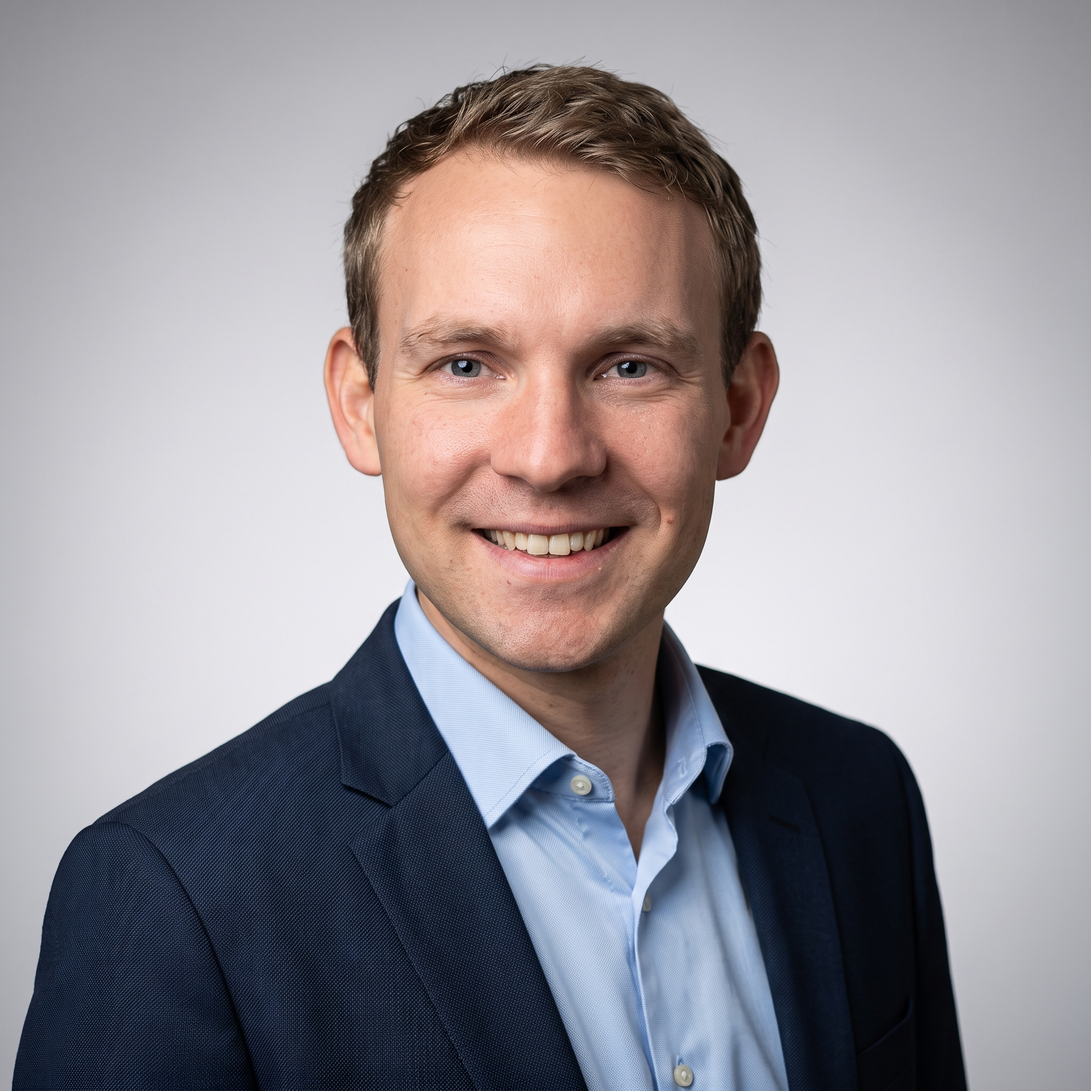
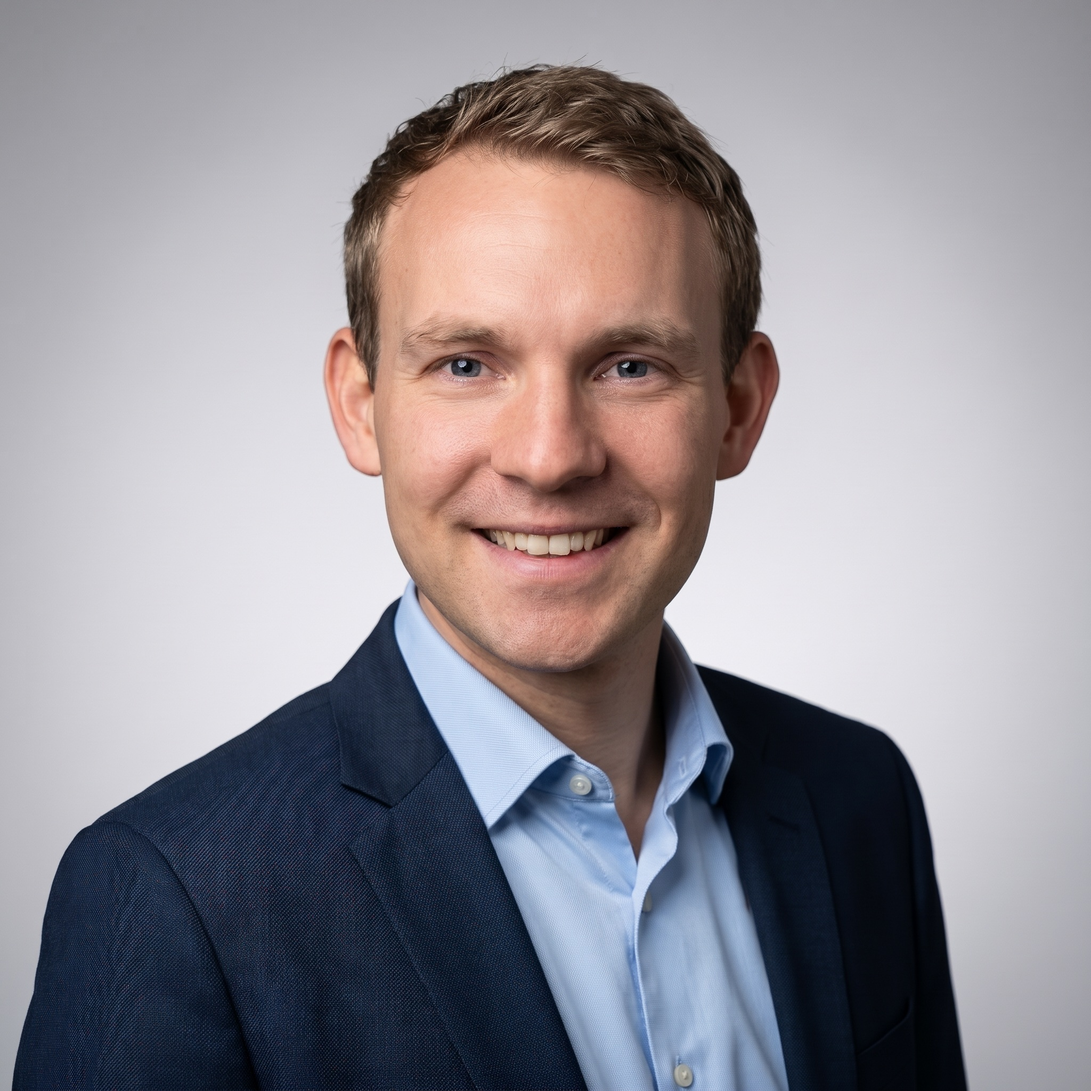
Add comprehensive README with live site link and update profile image

diff --git a/README.md b/README.md
@@ -1,0 +1,125 @@
+# Bennit Strack — Personal Portfolio & Projects
+
+[![Live Demo](https://img.shields.io/badge/Live_Website-bennit99.github.io%2FMyWebsite-00DC82?style=for-the-badge&logo=googlechrome&logoColor=white)](https://bennit99.github.io/MyWebsite/)
+[![Deploy Status](https://img.shields.io/github/actions/workflow/status/Bennit99/MyWebsite/deploy.yml?branch=main&label=Deploy%20Pages&style=for-the-badge)](https://github.com/Bennit99/MyWebsite/actions)
+[![Vue.js](https://img.shields.io/badge/Vue.js_3-4FC08D?style=for-the-badge&logo=vuedotjs&logoColor=white)](https://vuejs.org/)
+[![Vite](https://img.shields.io/badge/Vite_6-646CFF?style=for-the-badge&logo=vite&logoColor=white)](https://vitejs.dev/)
+[![Tailwind CSS](https://img.shields.io/badge/Tailwind_CSS_v4-06B6D4?style=for-the-badge&logo=tailwindcss&logoColor=white)](https://tailwindcss.com/)
+
+> **Live Website:** [https://bennit99.github.io/MyWebsite/](https://bennit99.github.io/MyWebsite/)  
+> **Download CV:** [Bennit_Strack_CV.pdf](https://bennit99.github.io/MyWebsite/Bennit_Strack_CV.pdf)
+
+Welcome to the repository for my personal developer portfolio and software showcase. This site presents an overview of my background as an M.Sc. Wirtschaftsinformatiker / Software Engineer, featuring highlighted software engineering and data science projects, technical skills, and direct contact options.
+
+---
+
+## 🚀 Features
+
+- **⚡ Modern Stack:** Built with Vue 3 (Composition API `<script setup>`) and Vite for lightning-fast HMR and bundle optimization.
+- **🎨 Sleek Dark UI:** Modern dark aesthetic styled with Tailwind CSS v4, custom gradient accents, backdrop blurs, and glow effects.
+- **📱 Fully Responsive:** Optimized layout across mobile, tablet, and widescreen desktop displays.
+- **📂 Project Showcase:** Filterable project cards detailing key technologies, system architectures, and live/demo links.
+- **📄 Public CV Download:** Direct access to my curriculum vitae (PDF) with base-path-aware routing.
+- **🔒 Privacy-Focused Analytics:** Integrated with [Umami](https://umami.is/) for lightweight, cookie-free visitor insights.
+- **🤖 Automated CI/CD:** Fully automated builds and deployment to GitHub Pages via GitHub Actions on every push to `main`.
+
+---
+
+## 🛠 Tech Stack
+
+| Layer | Technologies |
+| :--- | :--- |
+| **Framework** | [Vue 3](https://vuejs.org/) (Composition API) |
+| **Bundler & Dev Server** | [Vite 6](https://vitejs.dev/) |
+| **Styling** | [Tailwind CSS v4](https://tailwindcss.com/) (`@tailwindcss/vite`) |
+| **Icons** | [Simple Icons](https://simple-icons.github.io/) |
+| **Analytics** | [Umami Analytics](https://cloud.umami.is/) |
+| **Hosting & CI/CD** | [GitHub Pages](https://pages.github.com/) via [GitHub Actions](https://github.com/features/actions) |
+
+---
+
+## 📁 Project Structure
+
+```text
+MyWebsite/
+├── .github/
+│   └── workflows/
+│       └── deploy.yml          # GitHub Actions deployment to GitHub Pages
+├── public/
+│   ├── images/                 # Project screenshots and assets
+│   ├── Bennit_Strack_CV.pdf    # Current Curriculum Vitae
+│   └── wip.html                # Placeholder page for ongoing projects
+├── src/
+│   ├── assets/
+│   │   └── main.css            # Tailwind theme, utility classes, and glows
+│   ├── components/
+│   │   ├── AppHeader.vue       # Sticky glassmorphism navigation bar
+│   │   ├── AppFooter.vue       # Footer with copyright and credits
+│   │   ├── HeroSection.vue     # Bio, skill tags, contact & CV download CTA
+│   │   ├── ProjectCard.vue     # Individual interactive project card
+│   │   └── ProjectGrid.vue     # Responsive grid container for projects
+│   ├── data/
+│   │   └── projects.js         # Project metadata, tags, and links
+│   ├── App.vue                 # Root application component
+│   └── main.js                 # App initialization
+├── index.html                  # HTML entry point with meta tags & analytics
+├── vite.config.js              # Vite configuration (base path & plugins)
+└── package.json                # Project dependencies and npm scripts
+```
+
+---
+
+## 💻 Local Development
+
+To run and preview this project locally, ensure you have **Node.js** (v18+) and **npm** installed.
+
+### 1. Clone the repository
+```bash
+git clone https://github.com/Bennit99/MyWebsite.git
+cd MyWebsite
+```
+
+### 2. Install dependencies
+```bash
+npm install
+```
+
+### 3. Start local development server
+```bash
+npm run dev
+```
+Open your browser and navigate to the local URL (typically `http://localhost:5173/MyWebsite/`).
+
+### 4. Build for production
+```bash
+npm run build
+```
+The compiled output will be generated inside the `dist/` directory.
+
+### 5. Preview production build locally
+```bash
+npm run preview
+```
+
+---
+
+## 🚢 Deployment
+
+Deployment is completely automated. Whenever changes are merged or pushed to the `main` branch, the GitHub Actions workflow [`.github/workflows/deploy.yml`](.github/workflows/deploy.yml) will:
+1. Check out the repository.
+2. Install dependencies with `npm ci`.
+3. Build the project via `npm run build`.
+4. Deploy the contents of `dist/` directly to **GitHub Pages**.
+
+---
+
+## 📬 Contact & Connect
+
+- **Website:** [bennit99.github.io/MyWebsite/](https://bennit99.github.io/MyWebsite/)
+- **LinkedIn:** [linkedin.com/in/bennit-strack/](https://www.linkedin.com/in/bennit-strack/)
+- **GitHub:** [@Bennit99](https://github.com/Bennit99)
+- **Email:** [bennit.strack@gmail.com](mailto:bennit.strack@gmail.com)
+
+---
+
+© 2026 Bennit Strack. All rights reserved.
